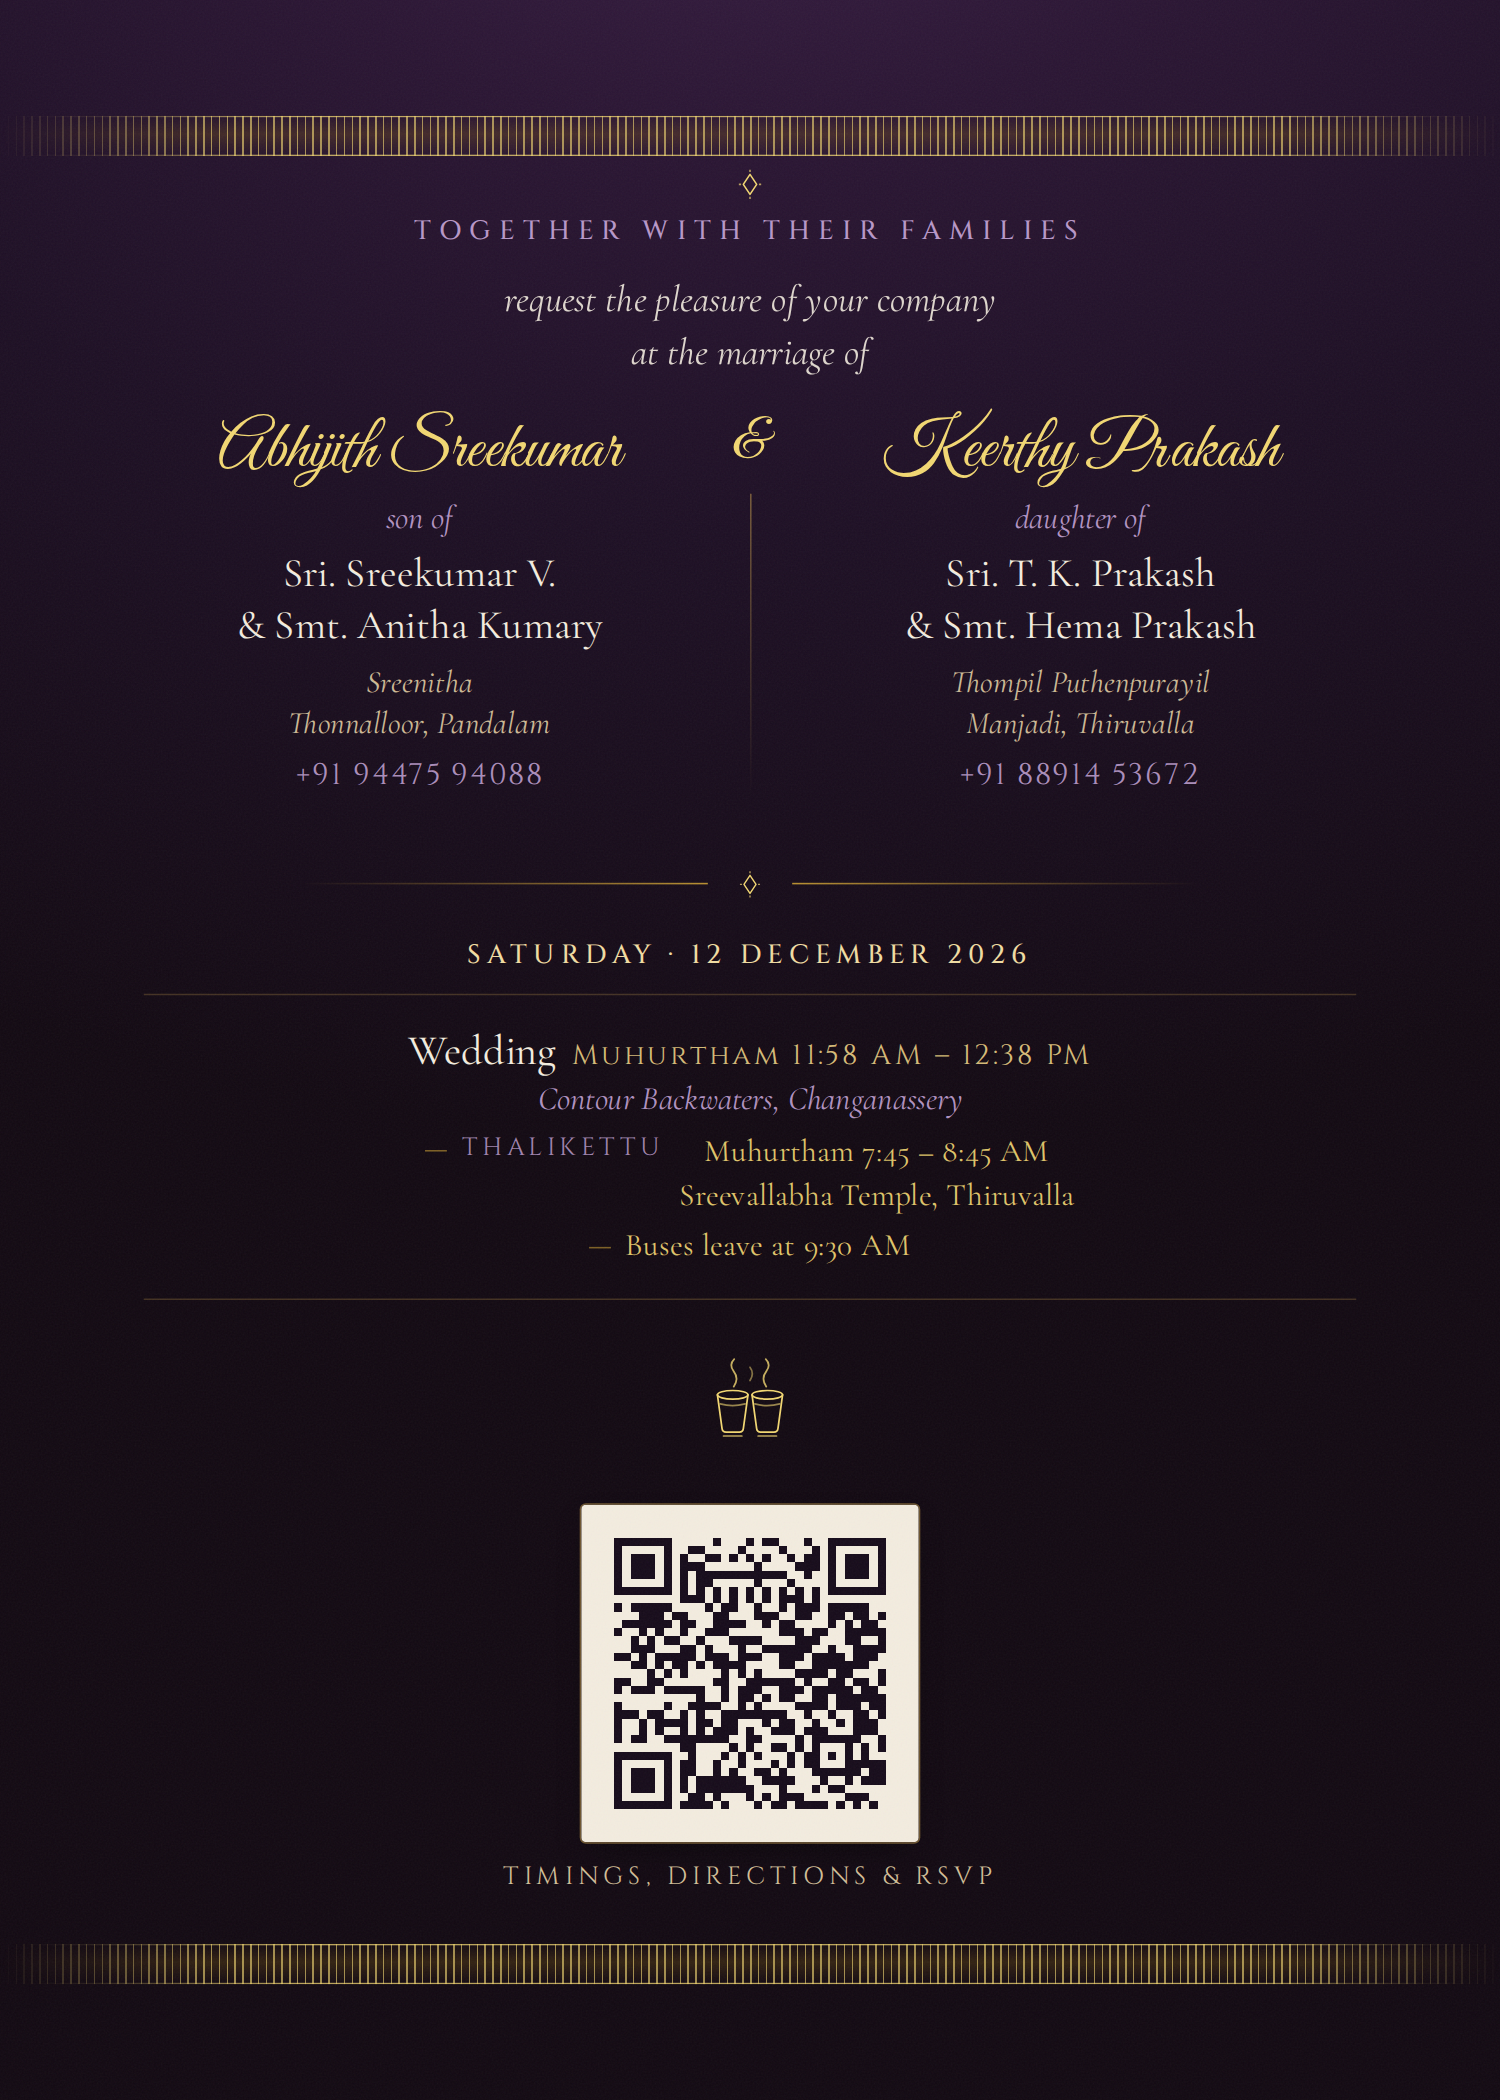
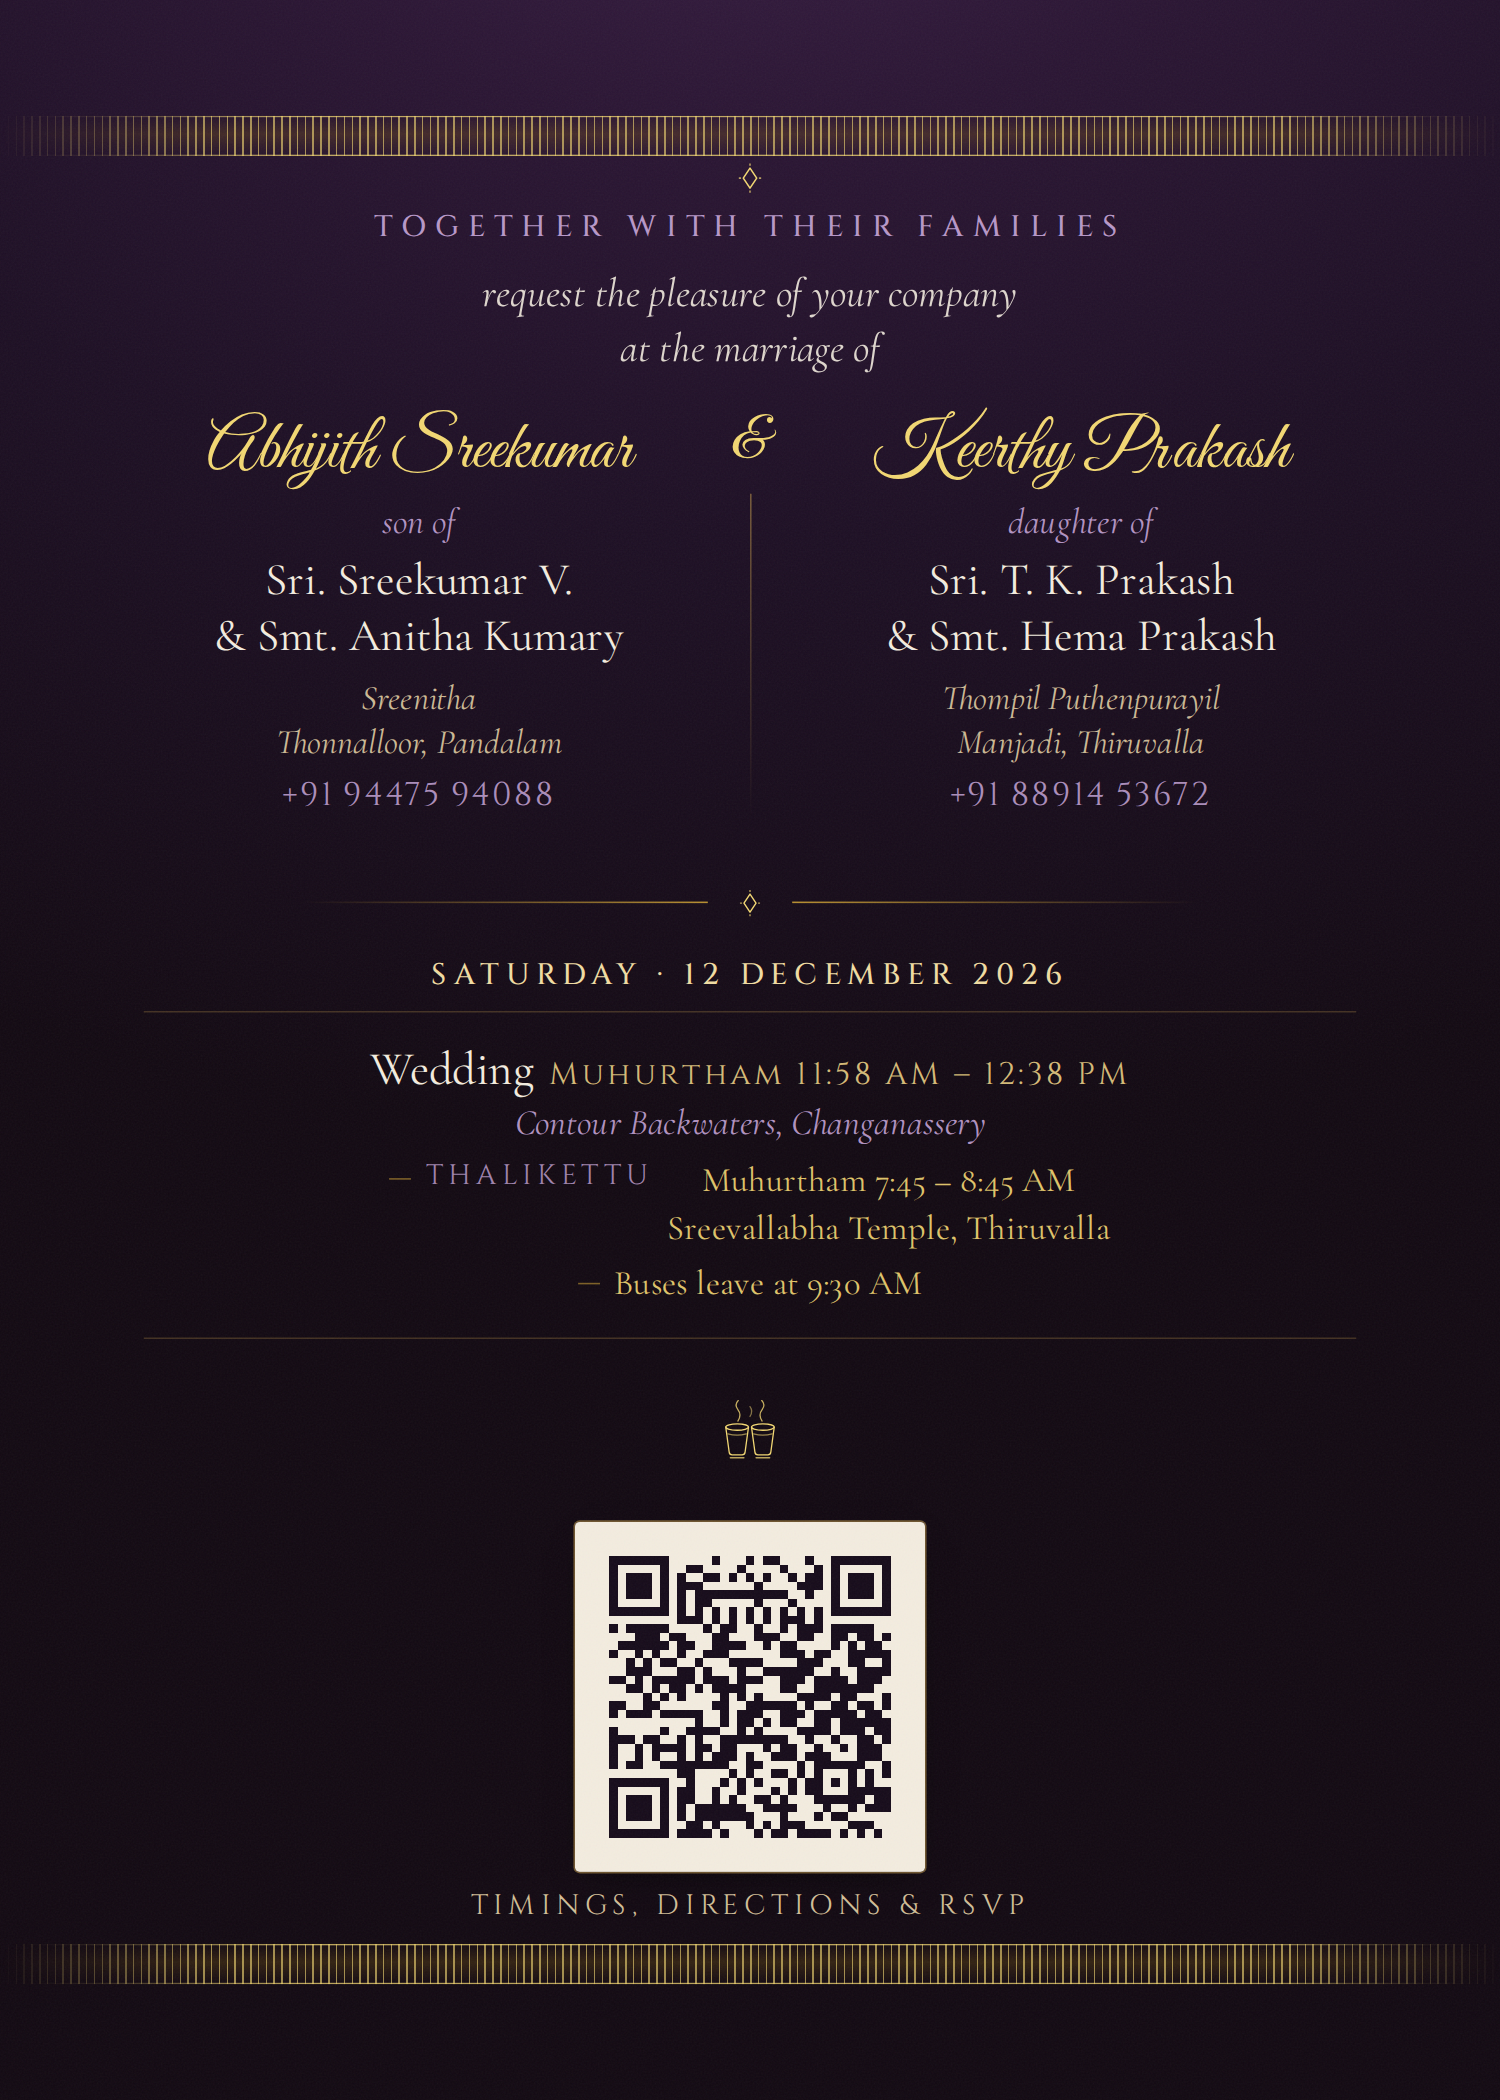
Lift the type again across the whole suite
Roughly 12% on everything: the parents' names 9.75 -> 10.88pt, event names
10.12 -> 11.25, venues 7.88 -> 8.62, the phone numbers 7.12 -> 7.88. The
floor rises from 6.00 to 6.75pt.

Paying for it took 58px off the card back, which the layout guard caught: the
stack's bottom inset, the row padding, the schedule's margins and the chai
mark all come in a little. Nothing that matters lost space — the type took it
from the gaps.

The QR grows 216 -> 224px, which is not about size. 224px is exactly 350
device pixels at 300dpi where 216 landed on 337.5, and half a pixel of
subpixel offset is enough to make the module edges uneven once scaled. The
all-events code has the longest URL and so the smallest modules, and it was
the one failing the 70% stress scale. Keep it a whole number of device pixels.

Claude-Session: https://claude.ai/code/session_01U3eNzvzbkYwe2F9QhNWExs

diff --git a/invitation/card-back.css b/invitation/card-back.css
@@ -5,7 +5,7 @@
 
 .stack {
   position: absolute;
-  inset: 108px 92px 132px;
+  inset: 104px 92px 112px;
   display: flex;
   flex-direction: column;
   align-items: center;
@@ -15,7 +15,7 @@
 /* --- families ------------------------------------------------------------ */
 
 .eyebrow {
-  font-size: 17px;
+  font-size: 19px;
   letter-spacing: 0.3em;
   color: rgba(198, 165, 216, 0.92);
   margin-top: 8px;
@@ -44,7 +44,7 @@
 
 .families .divider .amp-mark {
   font-family: var(--font-script);
-  font-size: 36px;
+  font-size: 38px;
   line-height: 1.15;
   color: var(--gold-bright);
 }
@@ -57,7 +57,7 @@
 
 .families .full {
   font-family: var(--font-script);
-  font-size: 42px;
+  font-size: 44px;
   /* the script overshoots its box, same as the names on the front */
   line-height: 1.3;
   padding: 0 0.12em;
@@ -67,39 +67,39 @@
 
 .families .rel {
   font-style: italic;
-  font-size: 21px;
+  font-size: 23px;
   color: rgba(198, 165, 216, 0.9);
   margin-top: 2px;
 }
 
 .families .who {
-  font-size: 26px;
-  line-height: 1.28;
+  font-size: 29px;
+  line-height: 1.26;
   color: var(--ivory);
-  margin-top: 6px;
+  margin-top: 5px;
 }
 
 /* house name and number under each family, so the card carries both */
 .families .house {
   font-style: italic;
-  font-size: 20px;
+  font-size: 22px;
   line-height: 1.28;
   color: rgba(236, 217, 171, 0.86);
-  margin-top: 9px;
+  margin-top: 7px;
 }
 
 .families .tel {
   font-family: var(--font-label);
-  font-size: 19px;
+  font-size: 21px;
   letter-spacing: 0.06em;
   color: rgba(198, 165, 216, 0.86);
   margin-top: 6px;
 }
 
 .invite {
-  font-size: 24px;
-  line-height: 1.4;
-  margin-top: 16px;
+  font-size: 26px;
+  line-height: 1.36;
+  margin-top: 12px;
   max-width: 560px;
 }
 
@@ -109,13 +109,13 @@
 .section-rule {
   width: 100%;
   margin-top: auto;
-  padding-top: 16px;
+  padding-top: 10px;
 }
 .section-rule .line { max-width: 260px; }
 
 .events {
   width: 100%;
-  margin-top: 14px;
+  margin-top: 10px;
 }
 
 .ev {
@@ -126,7 +126,7 @@
   text-align: left;
   /* tightened when the Thalikettu note went in: three event rows each
      carrying two sub-lines put the stack 22px over the card */
-  padding: 10px 4px 11px;
+  padding: 9px 4px 9px;
   border-bottom: 0.75px solid rgba(203, 162, 77, 0.26);
 }
 .ev:first-child {
@@ -136,7 +136,7 @@
 .ev .day {
   font-family: var(--font-label);
   text-transform: uppercase;
-  font-size: 17px;
+  font-size: 19px;
   letter-spacing: 0.1em;
   color: var(--champagne);
   white-space: nowrap;
@@ -144,7 +144,7 @@
 
 .ev .what {
   display: block;
-  font-size: 27px;
+  font-size: 30px;
   color: var(--ivory);
   line-height: 1.16;
 }
@@ -152,7 +152,7 @@
 .ev .what .time {
   display: inline;
   font-family: var(--font-label);
-  font-size: 18px;
+  font-size: 20px;
   letter-spacing: 0.1em;
   color: rgba(232, 205, 130, 0.92);
   margin-left: 10px;
@@ -162,7 +162,7 @@
 .ev .venue {
   display: block;
   font-style: italic;
-  font-size: 21px;
+  font-size: 23px;
   color: rgba(198, 165, 216, 0.9);
   margin-top: 3px;
   line-height: 1.25;
@@ -171,7 +171,7 @@
 /* The public card covers one day rather than four, so it heads the block with
    the date and drops the per-row dates that would just repeat it. */
 .day-head {
-  font-size: 17px;
+  font-size: 19px;
   letter-spacing: 0.22em;
   color: var(--champagne);
   margin-top: 24px;
@@ -189,23 +189,24 @@
 
 .qr-block {
   margin-top: auto;
-  padding-top: 4px;
+  padding-top: 0;
   display: flex;
   flex-direction: column;
   align-items: center;
-  gap: 11px;
+  gap: 9px;
 }
 
 /* a cream plaque, not a cutout: the code has to be dark-on-light with its
    quiet zone intact or phones will not read it off the printed card */
 .qr-block img {
-  /* 1.125in rather than 1in. The all-events code carries a longer URL, so it
-     has more modules in the same square, and after the type was enlarged it
-     stopped decoding at the 70% stress scale in build/verify-qr.py. Module
-     size is the whole game with a printed code — a bigger square is the fix,
-     not a better scanner. */
-  width: 216px;
-  height: 216px;
+  /* 224px, which is 1.167in — and, more to the point, exactly 350 device
+     pixels at the 300dpi this renders to. 216px landed on 337.5, and half a
+     pixel of subpixel offset is enough to make the module edges uneven once
+     they are scaled; the all-events code, which carries the longer URL and so
+     has the smallest modules, then failed the 70% stress scale in
+     build/verify-qr.py. Keep this a whole number of device pixels. */
+  width: 224px;
+  height: 224px;
   display: block;
   border-radius: 3px;
   box-shadow: 0 0 0 1px rgba(203, 162, 77, 0.5), 0 8px 20px -8px rgba(0, 0, 0, 0.6);
@@ -217,7 +218,7 @@
 .qr-block .caption {
   font-family: var(--font-label);
   text-transform: uppercase;
-  font-size: 16px;
+  font-size: 18px;
   letter-spacing: 0.2em;
   color: rgba(236, 217, 171, 0.88);
 }
@@ -242,7 +243,7 @@
   gap: 9px;
   margin-top: 6px;
   font-family: var(--font-body);
-  font-size: 20px;
+  font-size: 22px;
   letter-spacing: 0.01em;
   color: rgba(242, 215, 114, 0.92);
 }
@@ -250,7 +251,7 @@
 .evnote .n-head {
   text-transform: uppercase;
   font-family: var(--font-label);
-  font-size: 16px;
+  font-size: 18px;
   letter-spacing: 0.18em;
   color: rgba(198, 165, 216, 0.8);
   flex: none;

diff --git a/invitation/envelope-face.html b/invitation/envelope-face.html
@@ -73,7 +73,7 @@
   .crest-sub {
     font-family: var(--font-label);
     text-transform: uppercase;
-    font-size: 16px;
+    font-size: 18px;
     letter-spacing: 0.32em;
     color: var(--ink-soft);
     margin-top: 20px;
@@ -81,7 +81,7 @@
 
   .names {
     font-family: var(--font-script);
-    font-size: 58px;
+    font-size: 62px;
     line-height: 1.16;
     margin-top: 12px;
     color: var(--ink-strong);
@@ -95,7 +95,7 @@
   .to-label {
     font-family: var(--font-label);
     text-transform: uppercase;
-    font-size: 16px;
+    font-size: 18px;
     letter-spacing: 0.32em;
     color: var(--ink-soft);
     text-align: left;
@@ -118,14 +118,14 @@
   .from-label {
     font-family: var(--font-label);
     text-transform: uppercase;
-    font-size: 16px;
+    font-size: 18px;
     letter-spacing: 0.22em;
     color: var(--ink-soft);
     margin-bottom: 10px;
   }
-  .from .who { font-size: 24px; color: var(--ink-strong); line-height: 1.32; }
+  .from .who { font-size: 26px; color: var(--ink-strong); line-height: 1.32; }
   .from .where {
-    font-size: 20px;
+    font-size: 22px;
     font-style: italic;
     color: var(--ink-soft);
     margin-top: 2px;
@@ -133,7 +133,7 @@
   .when {
     font-family: var(--font-label);
     text-transform: uppercase;
-    font-size: 16px;
+    font-size: 18px;
     letter-spacing: 0.2em;
     color: var(--ink);
     text-align: right;

diff --git a/invitation/envelope-flat.html b/invitation/envelope-flat.html
@@ -137,7 +137,7 @@
   .crest { color: var(--seal-ink); opacity: 0.92; }
 
   .crest-sub {
-    font-size: 16px;
+    font-size: 18px;
     letter-spacing: 0.32em;
     color: var(--text-soft);
     margin-top: 20px;
@@ -145,7 +145,7 @@
 
   .head .names {
     font-family: var(--font-script);
-    font-size: 52px;
+    font-size: 56px;
     line-height: 1.08;
     margin-top: 12px;
     color: var(--text-script);
@@ -158,7 +158,7 @@
   .to { width: 100%; }
 
   .to-label {
-    font-size: 16px;
+    font-size: 18px;
     letter-spacing: 0.32em;
     color: var(--text-label);
     text-align: left;
@@ -183,21 +183,21 @@
   }
 
   .from .from-label {
-    font-size: 16px;
+    font-size: 18px;
     letter-spacing: 0.22em;
     color: var(--text-soft);
     margin-bottom: 10px;
   }
-  .from .who { font-size: 24px; color: var(--text-strong); line-height: 1.35; }
+  .from .who { font-size: 26px; color: var(--text-strong); line-height: 1.35; }
   .from .where {
-    font-size: 20px;
+    font-size: 22px;
     font-style: italic;
     color: var(--text-soft);
     margin-top: 2px;
   }
 
   .when {
-    font-size: 16px;
+    font-size: 18px;
     letter-spacing: 0.2em;
     color: var(--text-label);
     text-align: right;

diff --git a/invitation/card-front.html b/invitation/card-front.html
@@ -69,14 +69,14 @@
   }
 
   .when {
-    font-size: 22px;
+    font-size: 24px;
     letter-spacing: 0.3em;
     color: var(--ivory);
     margin-top: 30px;
   }
 
   .where {
-    font-size: 18px;
+    font-size: 20px;
     letter-spacing: 0.32em;
     color: rgba(198, 165, 216, 0.9);
     margin-top: 14px;

diff --git a/invitation/card-back-public.html b/invitation/card-back-public.html
@@ -73,7 +73,7 @@
         </div>
       </div>
 
-      <span class="motif chai-mark" data-motif="chai" data-w="86"></span>
+      <span class="motif chai-mark" data-motif="chai" data-w="64"></span>
 
       <div class="qr-block">
         <img src="assets/qr-public.png" alt="">

diff --git a/invitation/card-back-all.html b/invitation/card-back-all.html
@@ -85,7 +85,7 @@
         </div>
       </div>
 
-      <span class="motif chai-mark" data-motif="chai" data-w="86"></span>
+      <span class="motif chai-mark" data-motif="chai" data-w="64"></span>
 
       <div class="qr-block">
         <img src="assets/qr-all.png" alt="">
